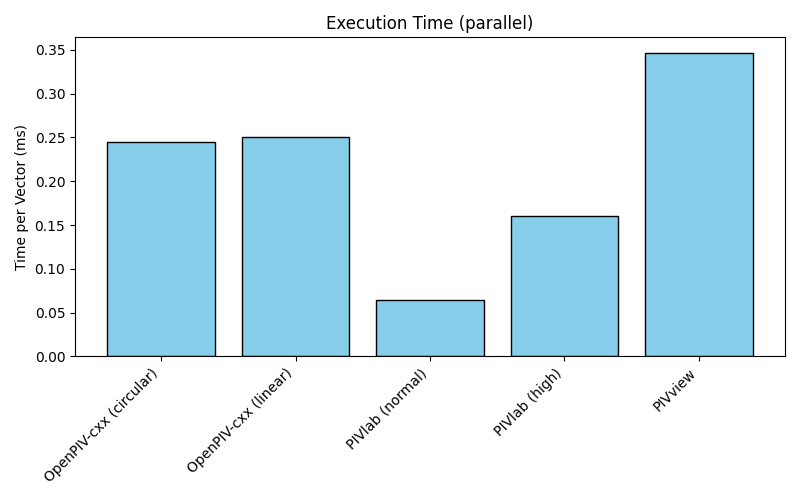
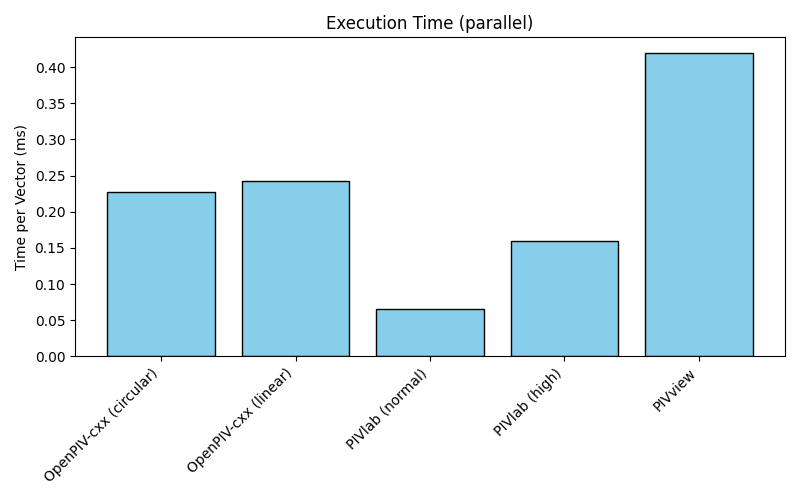
Updated timing after multithreading fix

diff --git a/pages/blogs/blog-openpiv-cxx-performance.md b/pages/blogs/blog-openpiv-cxx-performance.md
@@ -156,4 +156,4 @@ The results from the benchmark can be seen below. An immediate difference can be
 ![time test serial](/pages/blogs/assets/test_execution_time_serial.png)
 ![time test parallel](/pages/blogs/assets/test_execution_time_parallel.png)
 
-A notable mention should be made for the parallel tests. PIVlab used 8 parallel processes (workers) which each processing their own image pairs. This is the most efficient form of distributed processing for PIV images that are not time-resolved. Contrarily, PIVview and OpenPIV-cxx used multithreading with 15 threads processing the same image pair. This is a lot less efficient compared to distributed processing, as seen in PIVlab's performance. Finally, the correlation algorithms in OpenPIV-cxx would need to be profiled since circular correlation (no zero padding) performs at the same level as linear correlation (with zero padding). This should not be the case.
+A notable mention should be made for the parallel tests. PIVlab used 8 parallel processes (workers) which each processing their own image pairs. This is the most efficient form of distributed processing for PIV images that are not time-resolved. Contrarily, PIVview and OpenPIV-cxx used multithreading with 8 threads processing the same image pair. This is a lot less efficient compared to distributed processing, as seen in PIVlab's performance. Finally, the correlation algorithms in OpenPIV-cxx would need to be profiled since circular correlation (no zero padding) performs at the same level as linear correlation (with zero padding). This should not be the case.
